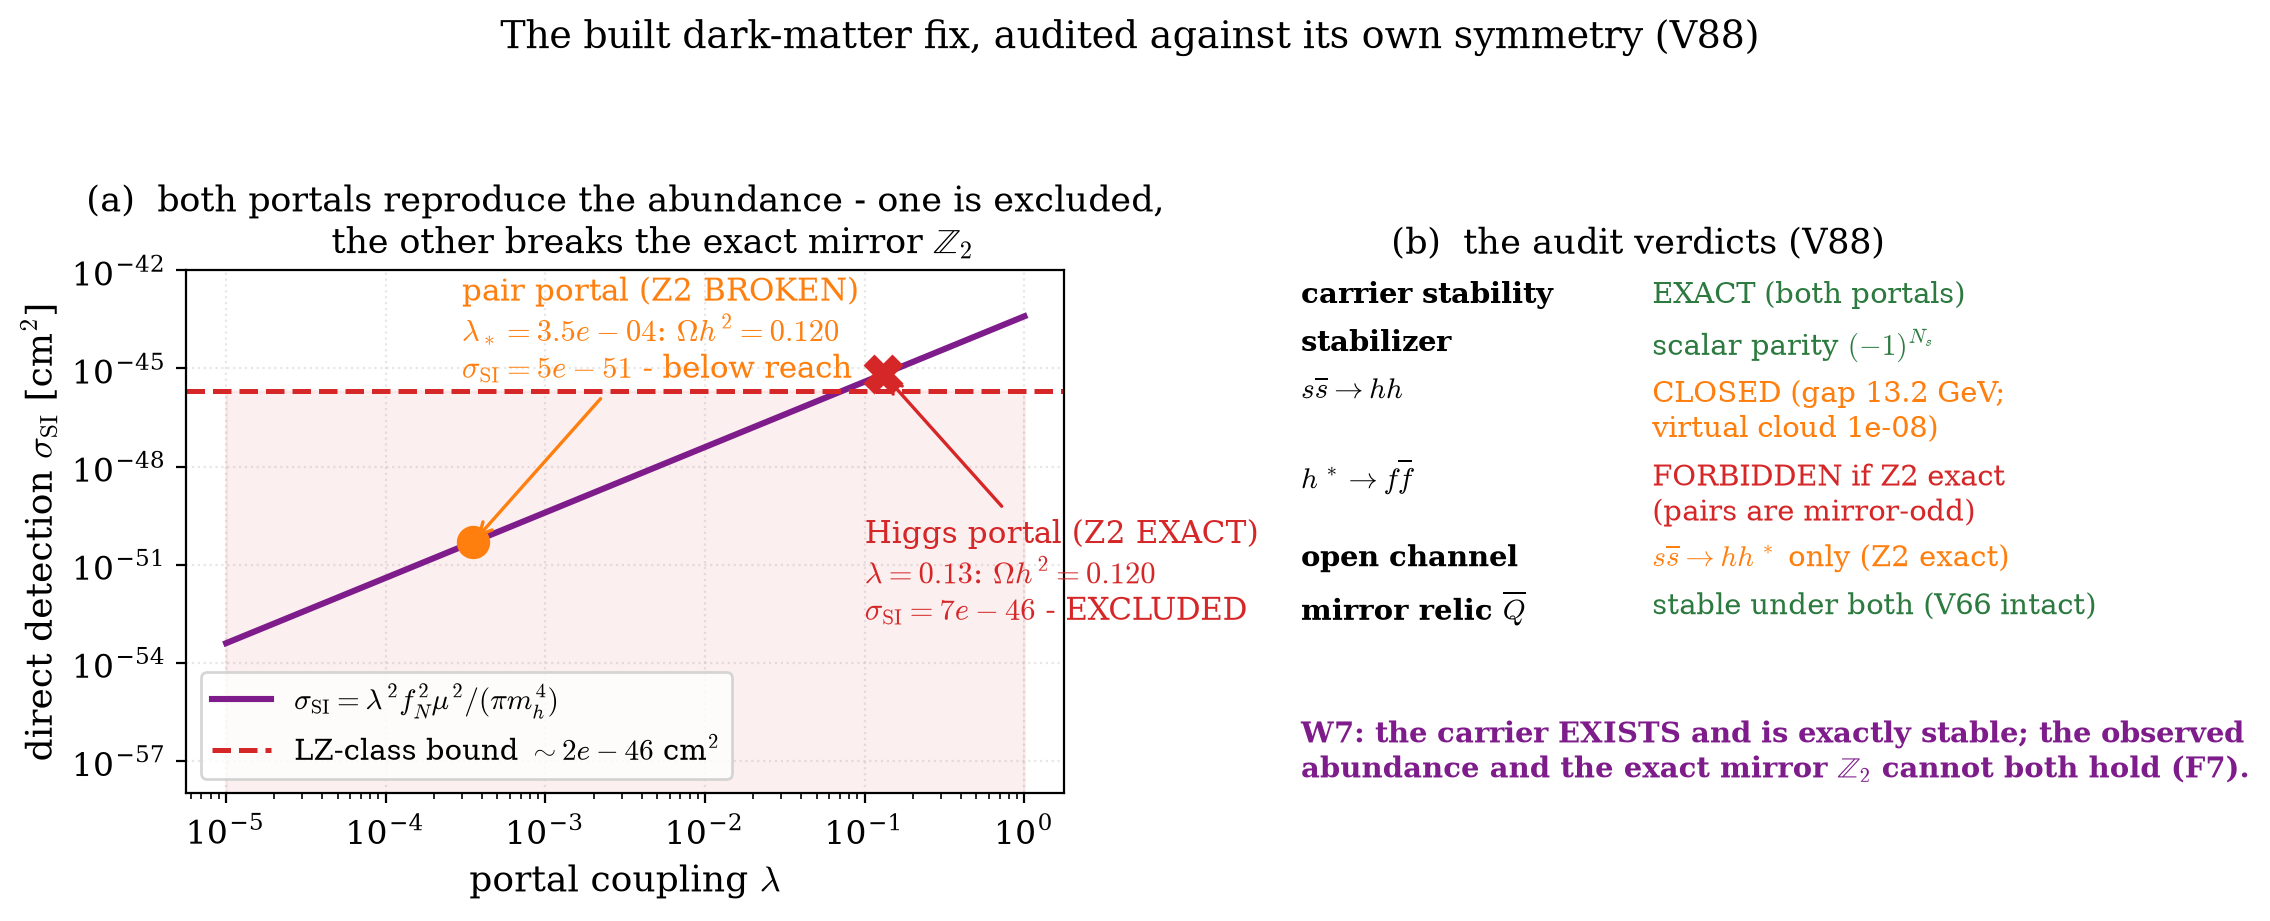
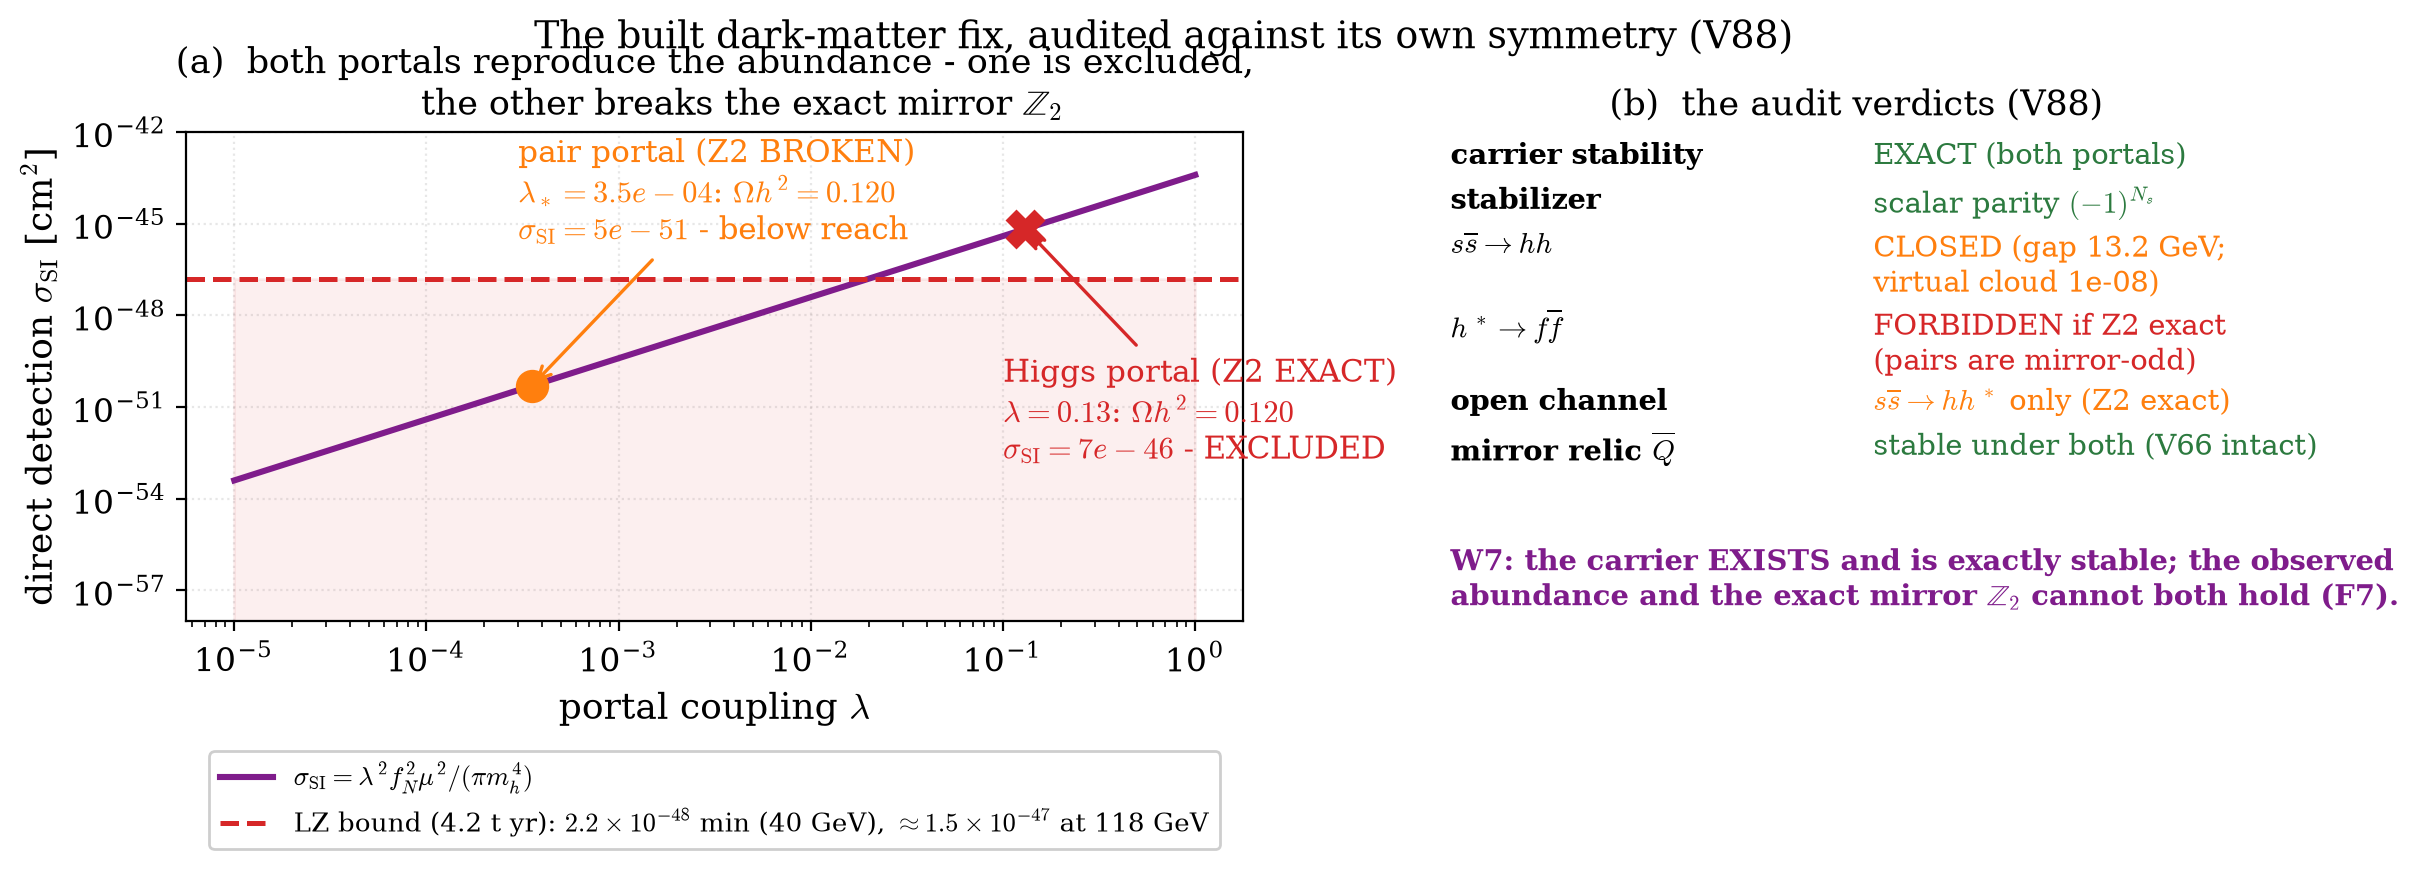
Second measured-values sweep: NuFIT 6.0 angles, PDG weak mixing, LZ 4.2 t yr
- Table 4: sin2 th12 0.308, sin2 th23 0.470 (octant unresolved), sin2 th13
  0.0222 [50]; Section 11.2: sin2 thetaW 0.23129(4), mW/mZ-implied 0.223 [13]
- V88 + fig28: LZ bound 2e-46 -> 1.5e-47 cm2 at 118 GeV (4.2 t yr,
  PRL 135, 011802 (2025), new ref [53]); Higgs portal still excluded
- fig28 legend moved below the frame; KATRIN 0.45 eV and SK mu+pi0 1.6e34
  confirmed current
- review/measured_values_audit.md section 6; PDF rebuilt

diff --git a/make_figures/residuals.py b/make_figures/residuals.py
@@ -248,7 +248,7 @@ def fig28_w7_portal():
         d = json.load(f)["data"]
     lam2, sig2 = d["V2_lam_star"], d["V2_sigma_SI_cm2"]
     lam1, sig1 = d["V1_lam_for_Omega"], d["V1_sigma_SI_cm2"]
-    lz = 2.0e-46
+    lz = 1.5e-47
     gap = d["ss_hh_gap_GeV"]
     cloud = d["V1_virtual_Pmax"]
 
@@ -263,7 +263,8 @@ def fig28_w7_portal():
                label=r"$\sigma_{\rm SI} = \lambda^2 f_N^2 \mu^2 / "
                      r"(\pi m_h^4)$")
     axA.axhline(lz, color=C_ZERO, ls="--", lw=1.8,
-                label=f"LZ-class bound $\\sim {lz:.0e}$ cm$^2$")
+                label=r"LZ bound (4.2 t yr): $2.2\times10^{-48}$ min "
+                      r"(40 GeV), $\approx1.5\times10^{-47}$ at 118 GeV")
     axA.fill_between([1e-5, 1], 1e-58, lz, color=C_ZERO, alpha=0.07)
     axA.plot([lam2], [sig2], "o", ms=11, color=C_SU2, zorder=5)
     axA.annotate(f"pair portal (Z2 BROKEN)\n$\\lambda_* = {lam2:.1e}$: "
@@ -285,7 +286,8 @@ def fig28_w7_portal():
                   "excluded,\n     the other breaks the exact mirror "
                   "$\\mathbb{Z}_2$", fontsize=12.5)
     axA.set_ylim(1e-58, 1e-42)
-    axA.legend(loc="lower left", fontsize=10.5)
+    axA.legend(loc="upper center", bbox_to_anchor=(0.5, -0.24),
+               fontsize=9.5, framealpha=0.95)
 
     rows = [
         ("carrier stability", "EXACT (both portals)", "#2c7a3f"),
@@ -314,7 +316,7 @@ def fig28_w7_portal():
 
     fig.suptitle("The built dark-matter fix, audited against its own "
                  "symmetry (V88)", fontsize=13.5)
-    fig.tight_layout(rect=[0, 0, 1, 0.93])
+    fig.subplots_adjust(left=0.075, right=0.985, top=0.86, bottom=0.34)
     save(fig, "fig28_w7_portal.png")
 
 def fig29_loop_selection():

diff --git a/experiments/V88_mirror_scalar/V88_mirror_scalar.py b/experiments/V88_mirror_scalar/V88_mirror_scalar.py
@@ -183,7 +183,8 @@ def main():
                           / (2 * M_DM)))
     sig_SI_V1 = (lam_Z2 ** 2 * f_N ** 2 * mu_red ** 2
                  / (math.pi * M_H ** 4)) * 0.3894e-27
-    LZ_BOUND = 2.0e-46   # cm^2: LZ/XENONnT-class reach at ~118 GeV
+    LZ_BOUND = 1.5e-47   # cm^2: LZ SI limit at ~118 GeV (4.2 t yr,
+                         # PRL 135, 011802 (2025); min 2.2e-48 at 40 GeV)
     checks["V2_lam_star"] = lam_star
     checks["V2_sigma_SI_cm2"] = sig_SI_V2
     checks["V1_lam_for_Omega"] = lam_Z2

diff --git a/doc/publication.md b/doc/publication.md
@@ -382,7 +382,7 @@ Eighth, that named ingredient has now been built and tested (V96), and it **clos
 
 ### 11.2 Electroweak mixing
 
-$\sin^2\theta_W = 3/8$ is the tree-level $\mathrm{SU}(5)/\mathrm{Spin}(10)$ boundary condition **at the unification scale**, not a low-energy prediction. Run to $M_Z$ it becomes $\simeq 0.23$, close to the measured $0.2312$; the measured ratio $m_W/m_Z = 0.881$ corresponds to $\sin^2\theta_W \simeq 0.224$, not to $\sqrt{5/8} = 0.791$. Earlier versions of this work quoted $m_W/m_Z = \sqrt{5/8}$ as a prediction; that is incorrect, and the correct statement is the standard one: the GUT-scale boundary condition $\sin^2\theta_W = 3/8$, whose low-energy value is obtained by running — running which, as just shown, the theory does not currently perform consistently.
+$\sin^2\theta_W = 3/8$ is the tree-level $\mathrm{SU}(5)/\mathrm{Spin}(10)$ boundary condition **at the unification scale**, not a low-energy prediction. Run to $M_Z$ it becomes $\simeq 0.23$, close to the measured $0.23129(4)$ ($\overline{\rm MS}$, PDG 2024 [13]); the measured ratio $m_W/m_Z = 0.881$ corresponds to $\sin^2\theta_W \simeq 0.223$, not to $\sqrt{5/8} = 0.791$. Earlier versions of this work quoted $m_W/m_Z = \sqrt{5/8}$ as a prediction; that is incorrect, and the correct statement is the standard one: the GUT-scale boundary condition $\sin^2\theta_W = 3/8$, whose low-energy value is obtained by running — running which, as just shown, the theory does not currently perform consistently.
 
 ### 11.3 Baryon asymmetry
 
@@ -447,8 +447,8 @@ In the quark sector the CKM matrix is the misalignment of the up- and down-type 
 | multi-bond scaling of the gauged layer | $\dim\ker(\text{3-site}) = 24$; additivity $\ln 45$ across a single bond; two-bond region $S = \ln 45$ (vertex mutual information $\ln 45$); Bekenstein deficit factor $4\ln 45 = 15.23$ | — | computed, V99 |
 | vertex correction and ground state of the gauged layer | $I_n = \dim(\mathbf{45}^{\otimes n})^G = 1,1,6,23,141$; kernel capacity $S_{\rm cap} = 4.4998$ nats (factor $9.0$ from $1/4$ per bond); vertex-corrected coefficient $(1/3)\ln I_6 = 1.65$ nats/bond (factor $6.6$); $E_0 = -5819.18\,\eta$, degeneracy $6$, gap $58.59\,\eta$, $S_{\rm GS} = \ln 45$ | — | computed, V100+V101 |
 | desert spectrum from the gauged layer's content | no solution (0 over full direction scan); all mass-ansatz families excluded, min residual $\ge 5.7$; **equal-shift theorem**: $\sum db_1 = \sum db_2$ over every complete multiplet (index proportionality, verified on $\mathbf{16}, \mathbf{45}, \mathbf{10}$); the data's mismatch requires $\mathrm{SU}(5)$-fragment content, which the automaton does not supply | — | **excluded**, V81+V82+V84 |
-| $\sin^2\theta_{12}$ | $1/3$ | $0.307$ | derived |
-| $\sin^2\theta_{23},\ \sin^2\theta_{13}$ | not fixed ($O(2)$) | $0.579,\ 0.022$ [17,50] | open |
+| $\sin^2\theta_{12}$ | $1/3$ | $0.308$ [50] | derived |
+| $\sin^2\theta_{23},\ \sin^2\theta_{13}$ | not fixed ($O(2)$) | $0.470$ (octant unresolved, 3σ $0.435$–$0.585$), $0.0222$ [50] | open |
 | CKM | identity | $\lambda = 0.225$ [13,44] | **fails** |
 | $\Lambda$ | $0$ (tree level) | $\sim 10^{-122}M_P^4$ | open |
 
@@ -750,7 +750,7 @@ Every proposed supplier of the desert spectrum, and how each was closed. The mea
 
 ![W7 portal](figures/fig28_w7_portal.png)
 
-(a) The direct-detection line $\sigma_{\rm SI}(\lambda)$ with the two ways the built ladder scalar reproduces $\Omega_{\rm DM}h^2 = 0.120$: the fermion-pair portal ($\lambda_* = 3.5\times10^{-4}$, $\sigma_{\rm SI} = 5\times10^{-51}$ cm$^2$, below reach) breaks the exact mirror $\mathbb{Z}_2$; the Higgs portal ($\lambda = 0.13$, $\sigma_{\rm SI} = 7\times10^{-46}$ cm$^2$) preserves it and is excluded by the LZ-class bound. (b) The audit verdicts: stability exact under either portal (scalar parity), $s\overline{s} \to hh$ closed, $h^* \to f\overline{f}$ forbidden under exact $\mathbb{Z}_2$, the mirror relic unaffected. The observed abundance and the exact mirror $\mathbb{Z}_2$ cannot both hold (F7).
+(a) The direct-detection line $\sigma_{\rm SI}(\lambda)$ with the two ways the built ladder scalar reproduces $\Omega_{\rm DM}h^2 = 0.120$: the fermion-pair portal ($\lambda_* = 3.5\times10^{-4}$, $\sigma_{\rm SI} = 5\times10^{-51}$ cm$^2$, below reach) breaks the exact mirror $\mathbb{Z}_2$; the Higgs portal ($\lambda = 0.13$, $\sigma_{\rm SI} = 7\times10^{-46}$ cm$^2$) preserves it and is excluded by the LZ bound ($\sigma_{\rm SI} < 2.2\times10^{-48}$ cm$^2$ at 40 GeV, $\approx 1.5\times10^{-47}$ at 118 GeV; 4.2 t yr, PRL **135**, 011802 (2025) [53]). (b) The audit verdicts: stability exact under either portal (scalar parity), $s\overline{s} \to hh$ closed, $h^* \to f\overline{f}$ forbidden under exact $\mathbb{Z}_2$, the mirror relic unaffected. The observed abundance and the exact mirror $\mathbb{Z}_2$ cannot both hold (F7).
 
 **Fig. 29 — W8: the ladder length is the closed-loop crossing.**
 
@@ -882,3 +882,5 @@ Two cautions about what those passes mean. First, most of them check internal co
 50. I. Esteban, M. C. Gonzalez-Garcia, M. Maltoni, I. Martinez-Soler, and T. Schwetz, "NuFIT 6.0: Updated global analysis of three-flavor neutrino oscillations," *PoS ICHEP2024*, 446 (2025), arXiv:2410.05380.
 51. M. Nath and P. Fileviez Pérez, "Proton stability in grand unified theories, in strings and in branes," *Phys. Rep.* **441**, 191 (2007).
 52. Super-Kamiokande Collaboration (K. Abe *et al.*), "Search for proton decay via $p\to\nu K^+$ using 260 kiloton$\cdot$year data of Super-Kamiokande," *Phys. Rev. D* **90**, 072005 (2014).
+
+53. LUX-ZEPLIN Collaboration (J. Aalbers *et al.*), "Dark Matter Search Results from 4.2 Tonne-Years of Exposure of the LUX-ZEPLIN (LZ) Experiment," *Phys. Rev. Lett.* **135**, 011802 (2025), arXiv:2410.17036.

diff --git a/review/measured_values_audit.md b/review/measured_values_audit.md
@@ -91,3 +91,22 @@ exactly; $\tau_p = 1.8\times10^{36}$ yr), V81/V82 (the composite content
 is excluded as the desert supplier), V86 (the meeting is not yet derived
 from the root). Fig. 12 shows the 0-parameter SM-content failure;
 Fig. 21 shows the desert resolution.
+
+## 6. Second sweep — KATRIN, NuFIT angles, weak mixing, LZ (same day)
+
+| quantity | value used | source checked | verdict |
+|---|---|---|---|
+| KATRIN $m_\beta$ | $< 0.45$ eV (90% CL) | KATRIN, Science **388**, 180 (2025), 259 days [16] | confirmed; ref [16] is already the 2025 paper |
+| $\sin^2\theta_{12}$ | $0.307$ | NuFIT 6.0 (IC24+SK): $0.308$ [50] | **corrected** to $0.308$ [50] |
+| $\sin^2\theta_{23}$ | $0.579$ | NuFIT 6.0 NO best fit $0.470$, octant unresolved (3σ $0.435$–$0.585$) [50] | **corrected**: $0.579$ was the old second-octant best fit |
+| $\sin^2\theta_{13}$ | $0.022$ | NuFIT 6.0 NO: $0.02215$ [50] | confirmed, quoted $0.0222$ |
+| $\sin^2\hat\theta(M_Z)$ | $0.2312$ | PDG 2024 constants: $0.23129(4)$ ($\overline{\rm MS}$) [13] | **corrected** to $0.23129(4)$ |
+| $m_W/m_Z$-implied $\sin^2\theta_W$ | $0.224$ | $1-m_W^2/m_Z^2 = 0.223$ (PDG $m_W = 80.3692(133)$, $m_Z = 91.1880(20)$) [13] | **corrected** to $0.223$ |
+| $\Delta m^2_{21}$ | (used as $0.0086$ eV) | NuFIT 6.0: $7.49\times10^{-5}$ eV$^2$ → $0.00865$ eV [50] | confirmed |
+| SK $p\to\mu^+\pi^0$ bound | $1.6\times10^{34}$ yr | SK 2020 [15] | confirmed |
+| LZ direct-detection bound | was $2.0\times10^{-46}$ cm$^2$ ("LZ-class") | LZ 4.2 t yr, PRL **135**, 011802 (2025) [53]: min $2.2\times10^{-48}$ at 40 GeV, $\approx1.5\times10^{-47}$ at 118 GeV | **corrected**: `V88` `LZ_BOUND` and `fig28` now use $1.5\times10^{-47}$; the Higgs-portal point $7\times10^{-46}$ stays excluded (now by a factor ~47, not ~3) |
+
+Changes: `experiments/V88_mirror_scalar` (LZ_BOUND, rerun, verdict
+unchanged), `make_figures/residuals.py` (fig28 LZ line + legend moved
+below the frame), `doc/publication.md` (Table 4 neutrino rows, Section
+11.2, Fig. 28 caption, new reference 53).
